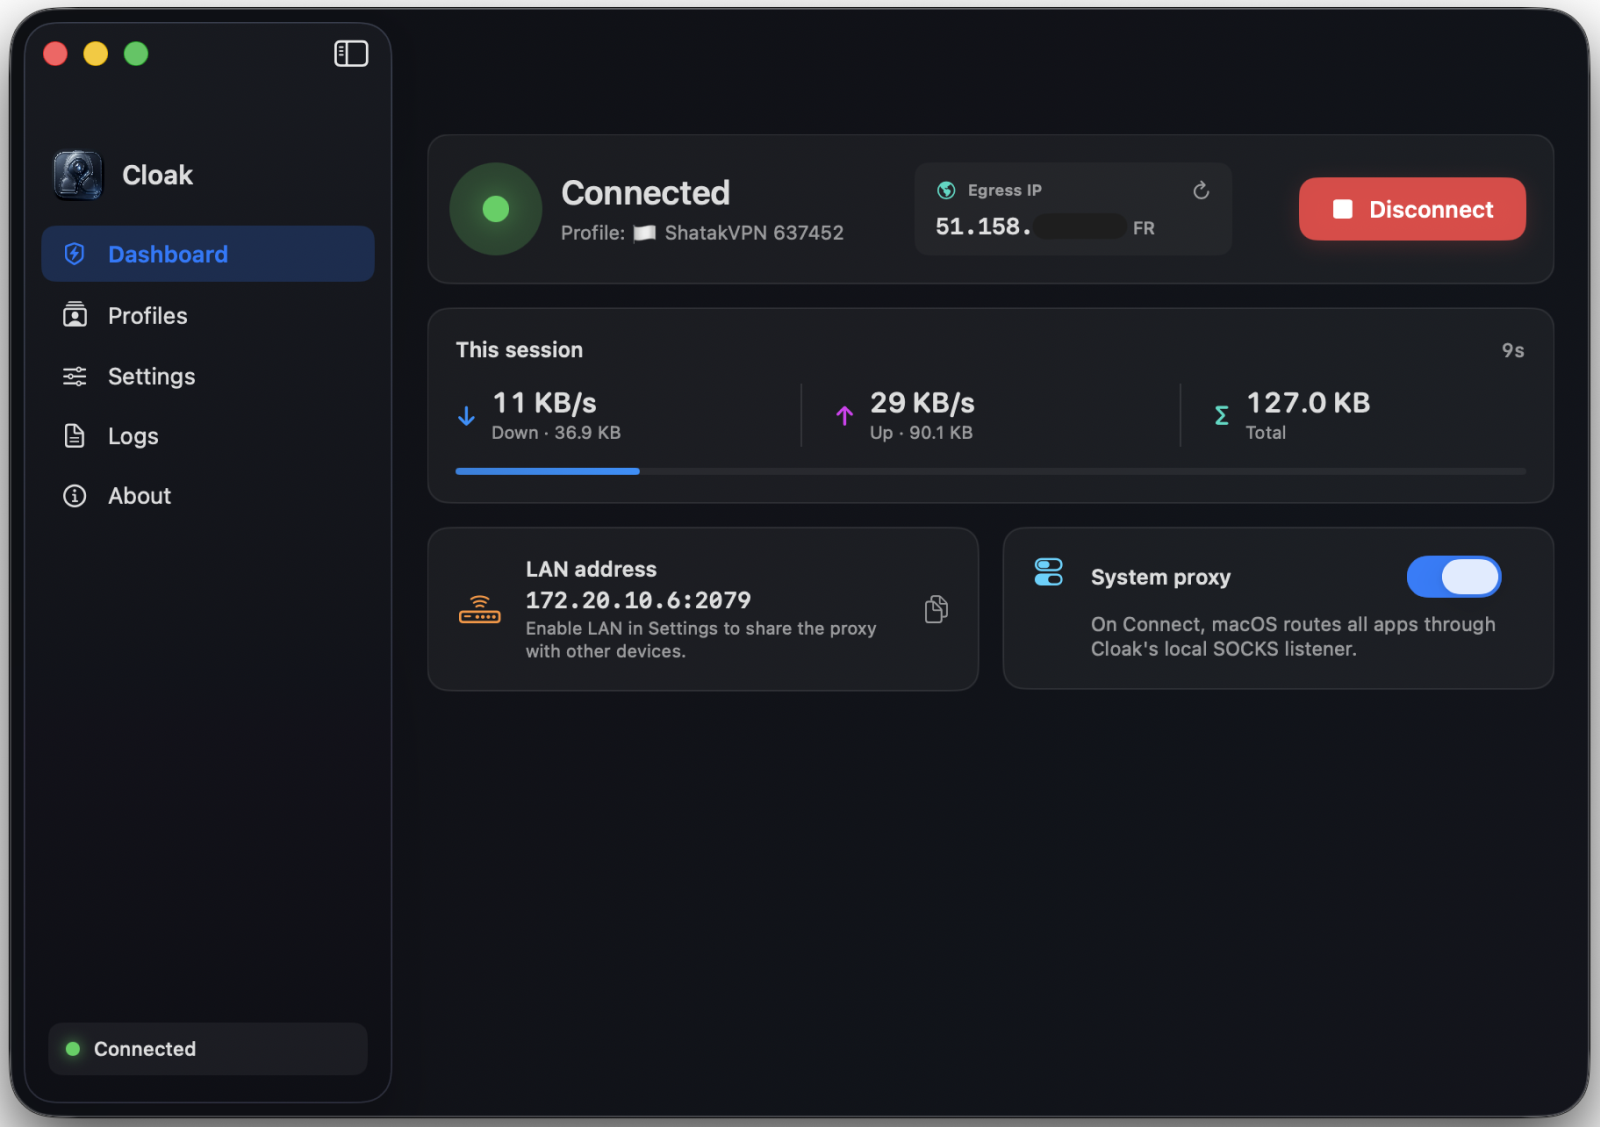
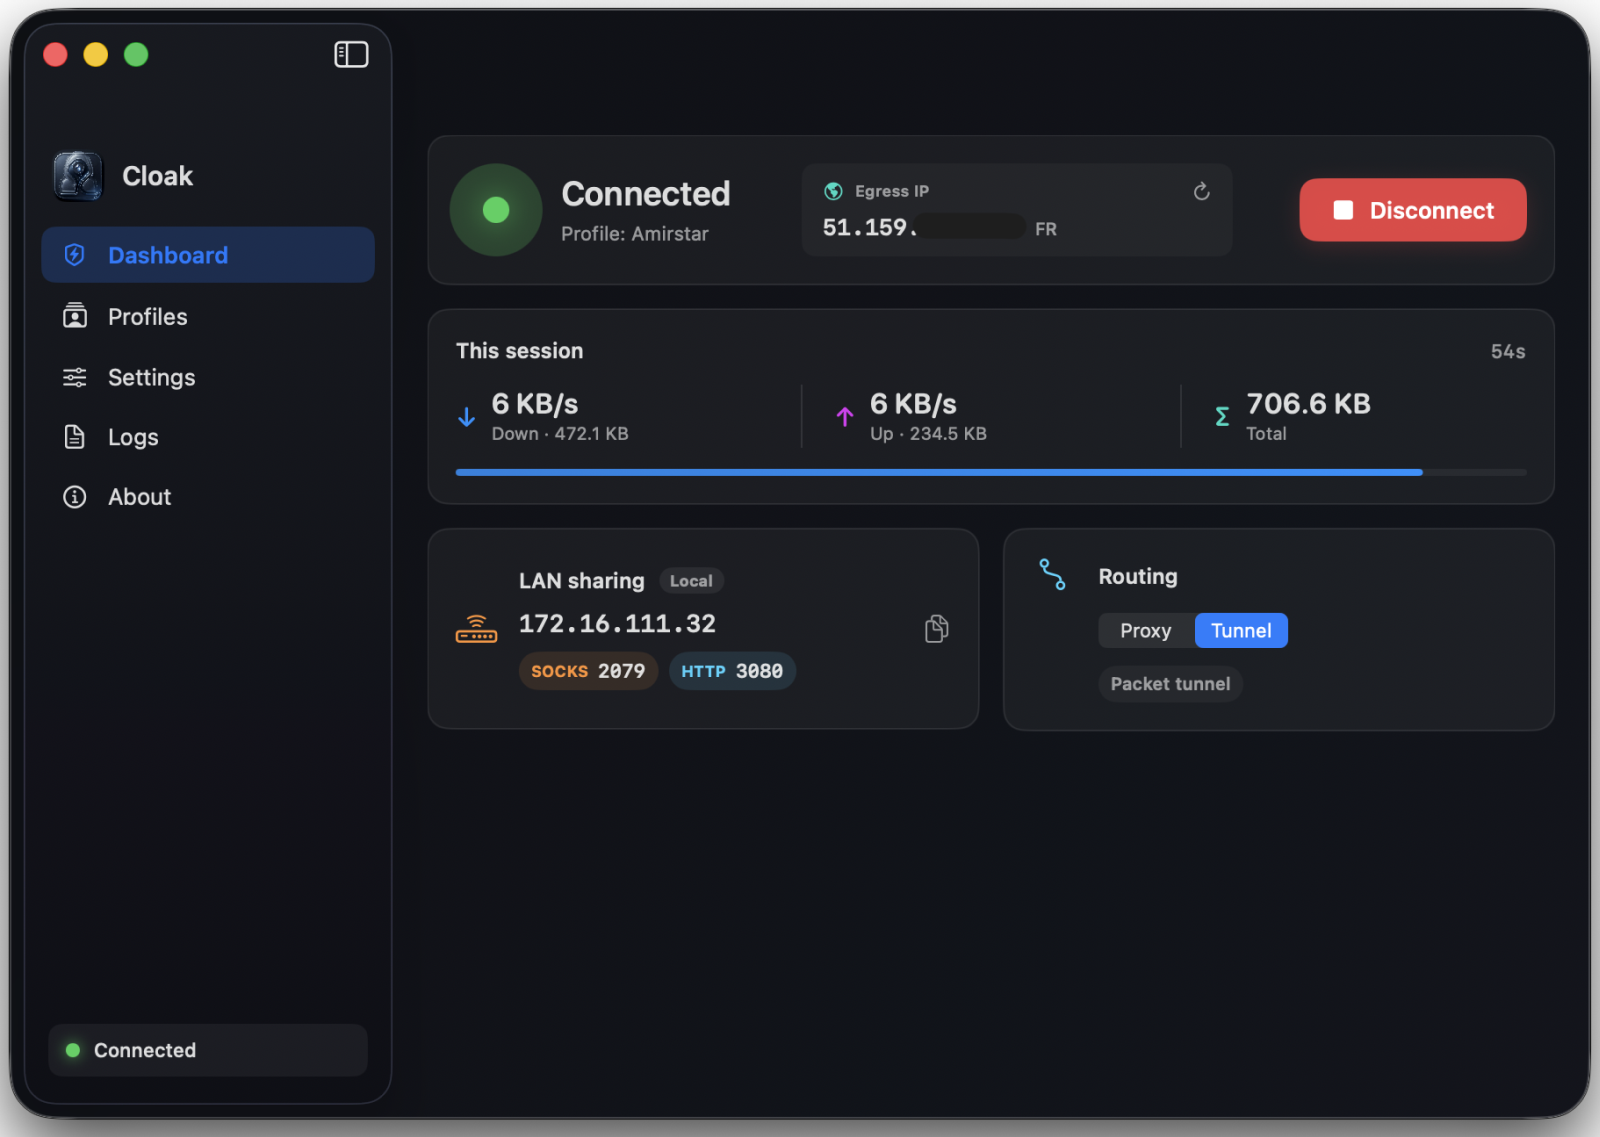
Enhance README and AppState for improved VPN and proxy features
- Added VPN Tunnel Mode (utun) to README, detailing full system traffic routing.
- Updated System proxy toggle description to clarify usage with local SOCKS and HTTP proxies.
- Introduced Auto-DNS Management in README, explaining automatic DNS configuration during tunnel connections.
- Increased sleep duration in AppState for egress lookup and adjusted retry attempts for better performance.
- Updated app-dashboard screenshot to reflect recent UI changes.

diff --git a/macos-app/Sources/SNISpoofing/Models/AppState.swift b/macos-app/Sources/SNISpoofing/Models/AppState.swift
@@ -685,7 +685,7 @@ final class AppState: ObservableObject {
         let host = settings.resolvedSocksHostForLocalClient
         let port = settings.listenPort
         Task { [weak self] in
-            try? await Task.sleep(nanoseconds: 600_000_000)
+            try? await Task.sleep(nanoseconds: 1_000_000_000)
             await self?.runEgressLookup(proxyHost: host, proxyPort: port)
         }
     }
@@ -698,7 +698,8 @@ final class AppState: ObservableObject {
     }
 
     private func runEgressLookup(proxyHost: String, proxyPort: Int) async {
-        for attempt in 0 ..< 3 {
+        let maxAttempts = 6
+        for attempt in 0 ..< maxAttempts {
             guard status.isRunning else { return }
             do {
                 let r = try await EgressInfoService.fetchEgress(proxyHost: proxyHost, proxyPort: proxyPort)
@@ -708,8 +709,8 @@ final class AppState: ObservableObject {
                 egressLookupMessage = nil
                 return
             } catch {
-                if attempt < 2 {
-                    try? await Task.sleep(nanoseconds: 400_000_000)
+                if attempt < maxAttempts - 1 {
+                    try? await Task.sleep(nanoseconds: 1_000_000_000)
                 } else if status.isRunning {
                     egressLookupMessage = error.localizedDescription
                 }

diff --git a/README.fa.md b/README.fa.md
@@ -32,7 +32,9 @@
 - **One-click connect** — شروع/توقف Listener پایتون و Xray از Dashboard یا Menu bar
 - **Profile library** — چسباندن لینک یا Drag-and-Drop فایل متنی (`vless`، `trojan`، `vmess`، `ss`)
 - **Real profile ping** — اندازهگیری latency از داخل tunnel هر پروفایل؛ ping همه با امکان لغو؛ حذف پروفایلهای بدون ping
-- **System proxy toggle** — عبور ترافیک همهٔ appهای macOS از local SOCKS endpoint کلوک
+- **VPN Tunnel Mode (utun)** — عبور ۱۰۰٪ ترافیک سیستم (TCP و UDP) در لایهٔ شبکه از طریق یک رابط مجازی کاملاً پویا (`utun`)، بدون بروز خطاهای تداخل "resource busy" با سایر برنامههای VPN
+- **System proxy toggle** — عبور ترافیک برنامههای macOS از پروکسیهای محلی SOCKS و HTTP کلوک
+- **Auto-DNS Management** — بازنویسی خودکار تنظیمات فعال DNS به سرورهای عمومی ایمن (`1.1.1.1` / `8.8.8.8`) در هنگام برقراری تونل، تخلیه حافظه پنهان DNS و بازیابی یکپارچه پیشفرضهای DHCP در زمان قطع اتصال
 - **LAN sharing** — Listener فقط روی همین مک Bind شود یا روی شبکه در دسترس باشد (Local / LAN)
 - **Egress IP** — نمایش public IP شما از طریق پروفایل فعال در زمان اتصال
 - **Menu bar control** — اتصال، تعویض پروفایل و بازکردن پنجرهٔ اصلی بدون بازماندن دائمی آن
@@ -50,7 +52,7 @@
 1. کلوک را باز کنید و مجوز یکبارهٔ Helper را بدهید (Settings).
 2. اگر از پل SNI داخلی استفاده میکنید، JSON مربوط به Cloudflare Listener را در **Settings** قرار دهید.
 3. یک پروفایل را انتخاب کنید، سپس در Dashboard روی **Connect** بزنید.
-4. اگر میخواهید همهٔ برنامهها بهصورت خودکار از کلوک استفاده کنند، **System proxy** را روشن کنید.
+4. حالت اتصال را روی **Tunnel** برای تجربه کامل مسیریابی در لایه سیستم (VPN) بگذارید، یا **System proxy** را روشن کنید تا از پروکسی SOCKS/HTTP استفاده شود.
 
 ## ساختار پروژه
 

diff --git a/README.md b/README.md
@@ -33,7 +33,9 @@
 - **One-click connect** — Start/stop the Python listener and Xray from the dashboard or menu bar
 - **Profile library** — Paste links or drag-and-drop a text file (`vless`, `trojan`, `vmess`, `ss`)
 - **Real profile ping** — Measure latency through each profile’s tunnel; ping all with cancel; remove profiles with no ping
-- **System proxy toggle** — Route all macOS apps through Cloak’s local SOCKS endpoint
+- **VPN Tunnel Mode (utun)** — Route 100% of your system traffic (both TCP and UDP) at the network layer through a dynamically allocated virtual interface (`utun`), avoiding "resource busy" conflicts with other VPN clients
+- **System proxy toggle** — Route macOS apps through Cloak’s local SOCKS and HTTP proxy endpoints
+- **Auto-DNS Management** — Automatically overrides active DNS configurations to secure public resolvers (`1.1.1.1` / `8.8.8.8`) during tunnel connection, flushing DNS caches and restoring DHCP defaults seamlessly on stop
 - **LAN sharing** — Bind the listener to this Mac only or expose it on your network (Local / LAN)
 - **Egress IP** — See your public IP through the active profile while connected
 - **Menu bar control** — Connect, switch profiles, and open the main window without keeping it open
@@ -51,7 +53,7 @@ Get the latest **`.dmg`** from [GitHub Releases](https://github.com/g3ntrix/Cloa
 1. Open Cloak and grant the one-time helper permission (Settings).
 2. Paste your Cloudflare listener JSON in **Settings** if you use the bundled SNI bridge.
 3. Select a profile, then **Connect** on the Dashboard.
-4. Turn on **System proxy** if you want every app to use Cloak automatically.
+4. Set the connection mode to **Tunnel** for a full VPN-level system routing experience, or toggle **System proxy** to use the local SOCKS/HTTP proxy.
 
 ## Project structure
 
